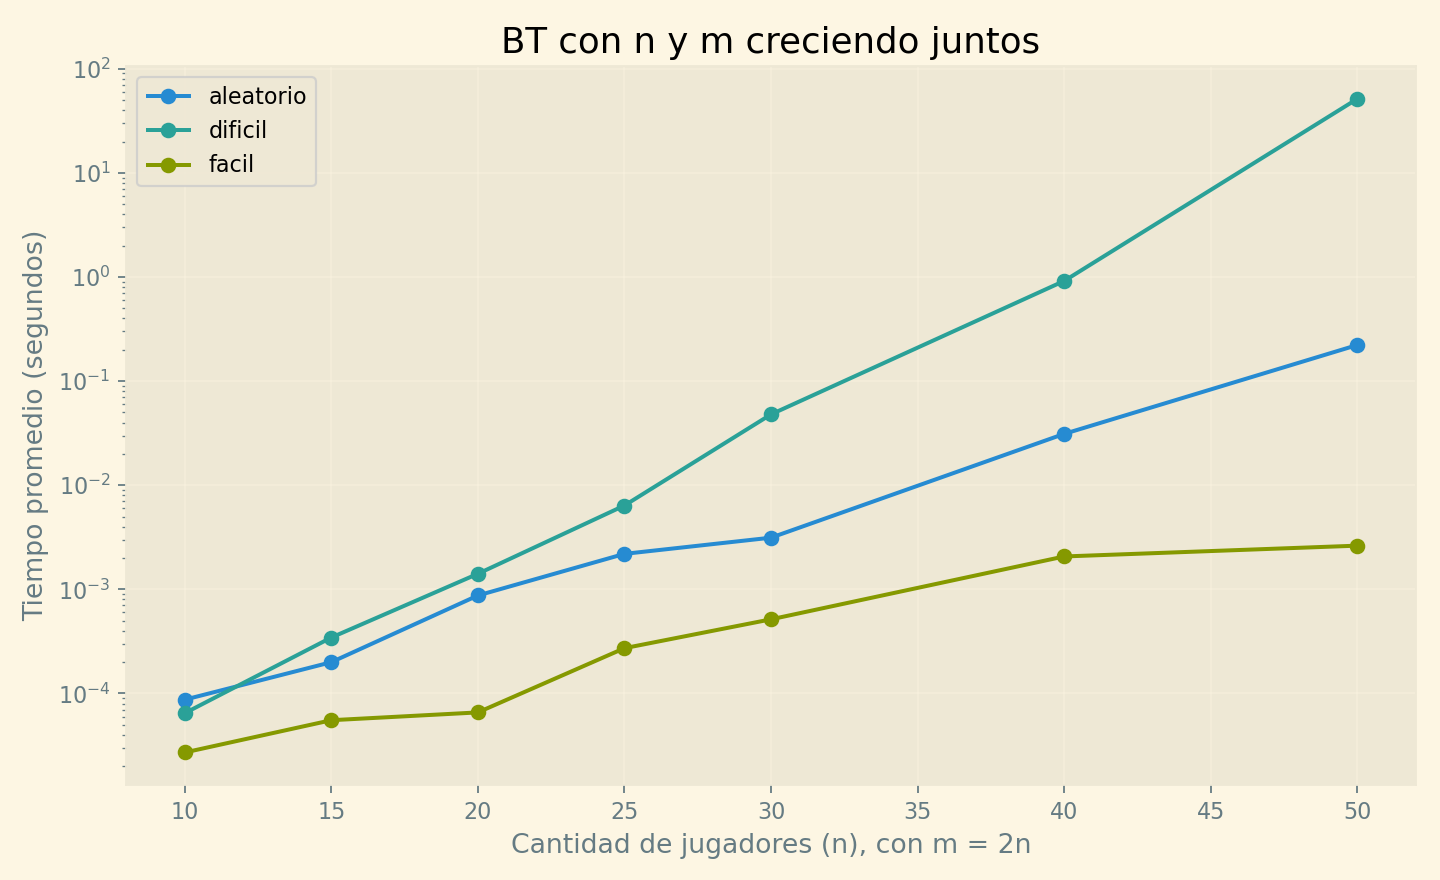
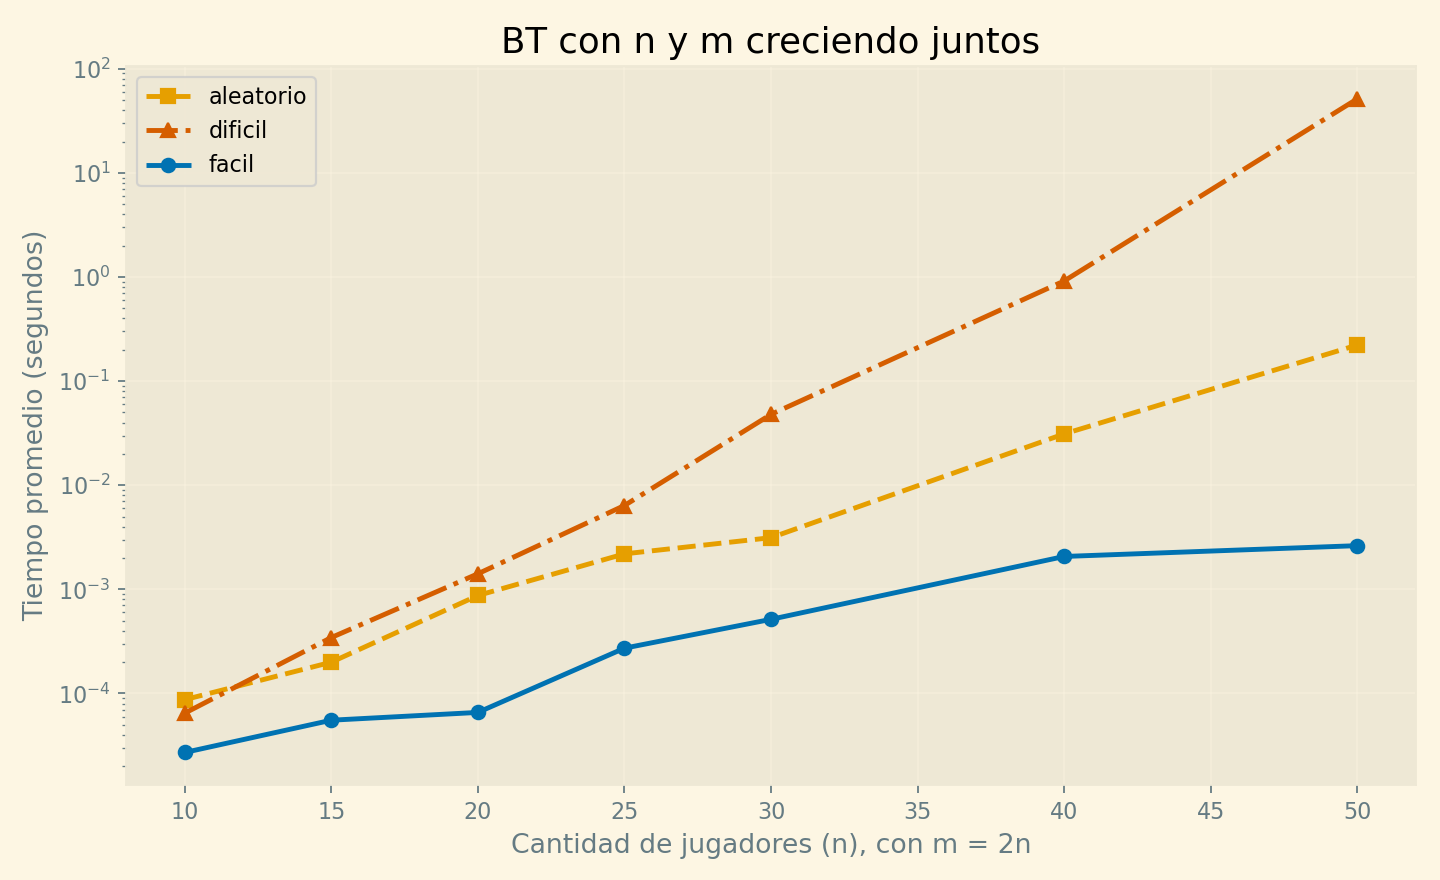
mejoro legibilidad y estilo de los graficos

diff --git a/resultados-propios/graficar_benchmark.py b/resultados-propios/graficar_benchmark.py
@@ -6,16 +6,41 @@ from pathlib import Path
 BASE = Path(__file__).resolve().parent
 os.environ.setdefault("MPLCONFIGDIR", str(BASE / ".matplotlib-cache"))
 
-try:
-    import matplotlib.pyplot as plt
-except ImportError as exc:
-    raise SystemExit(
-        "Falta matplotlib. Instalalo para poder generar los graficos."
-    ) from exc
-
+import matplotlib.pyplot as plt
 
 ESTILO = "Solarize_Light2"
 TIPOS = ["facil", "aleatorio", "dificil"]
+
+# Paleta Okabe-Ito: suele funcionar mejor para daltonismo.
+COLORES = {
+    "facil": "#0072B2",
+    "aleatorio": "#E69F00",
+    "dificil": "#D55E00",
+    "bt": "#0072B2",
+    "greedy": "#E69F00",
+    "pl": "#009E73",
+    "aprox_lp": "#CC79A7",
+}
+
+MARCADORES = {
+    "facil": "o",
+    "aleatorio": "s",
+    "dificil": "^",
+    "bt": "o",
+    "greedy": "s",
+    "pl": "^",
+    "aprox_lp": "D",
+}
+
+LINEAS = {
+    "facil": "-",
+    "aleatorio": "--",
+    "dificil": "-.",
+    "bt": "-",
+    "greedy": "--",
+    "pl": "-.",
+    "aprox_lp": ":",
+}
 
 
 def cargar_resultados(ruta_csv):
@@ -108,7 +133,16 @@ def graficar_series(filas, serie, eje_x, eje_y, titulo, xlabel, ylabel, salida_p
         puntos = series[nombre]
         xs = [x for x, _ in puntos]
         ys = [y for _, y in puntos]
-        plt.plot(xs, ys, marker="o", linewidth=1.8, label=nombre)
+        plt.plot(
+            xs,
+            ys,
+            color=COLORES.get(nombre),
+            linestyle=LINEAS.get(nombre, "-"),
+            marker=MARCADORES.get(nombre, "o"),
+            linewidth=2.2,
+            markersize=6,
+            label=nombre,
+        )
 
     plt.title(titulo)
     plt.xlabel(xlabel)
@@ -122,6 +156,9 @@ def graficar_series(filas, serie, eje_x, eje_y, titulo, xlabel, ylabel, salida_p
 
 def graficar_ratio(filas, salida_png):
     aplicar_estilo()
+
+    # El ratio viene de mediciones.py: |C_algoritmo| / |C_optimo|.
+    # Sirve para ver que tan lejos queda cada algoritmo del optimo.
     series = puntos_por_serie(filas, "algoritmo", "n", "ratio")
 
     plt.figure()
@@ -131,10 +168,19 @@ def graficar_ratio(filas, salida_png):
             continue
         xs = [x for x, _ in puntos]
         ys = [y for _, y in puntos]
-        plt.plot(xs, ys, marker="o", linewidth=1.8, label=algoritmo)
+        plt.plot(
+            xs,
+            ys,
+            color=COLORES.get(algoritmo),
+            linestyle=LINEAS.get(algoritmo, "-"),
+            marker=MARCADORES.get(algoritmo, "o"),
+            linewidth=2.2,
+            markersize=6,
+            label=algoritmo,
+        )
 
     plt.axhline(1, color="gray", linewidth=1, linestyle="--")
-    plt.title("Calidad de solucion por algoritmo")
+    plt.title("Aproximación a la solución por algoritmo")
     plt.xlabel("Cantidad de jugadores (n), con m = 2n")
     plt.ylabel("|C_algoritmo| / |C_optimo|")
     plt.legend()
@@ -212,7 +258,7 @@ def main():
         graficar_series(*args)
         print(f"Grafico listo: {args[-1]}")
 
-    salida_ratio = BASE / "comparacion_calidad_algoritmos.png"
+    salida_ratio = BASE / "comparacion_aproximacion_algoritmos.png"
     graficar_ratio(comparacion_algoritmos, salida_ratio)
     print(f"Grafico listo: {salida_ratio}")
 

diff --git a/mediciones.py b/mediciones.py
@@ -43,6 +43,8 @@ def armar_fila(info, algoritmo, solucion, tiempo_promedio, jugadores, pedidos, o
     """
     valida = solucion is not None and validar_cobertura(solucion, jugadores, pedidos)
     solucion_tam = len(solucion) if solucion is not None else None
+
+    # Mide la calidad contra el optimo: 1 es optimo, mas grande es peor.
     ratio = None
     if solucion_tam is not None and optimo:
         ratio = solucion_tam / optimo
